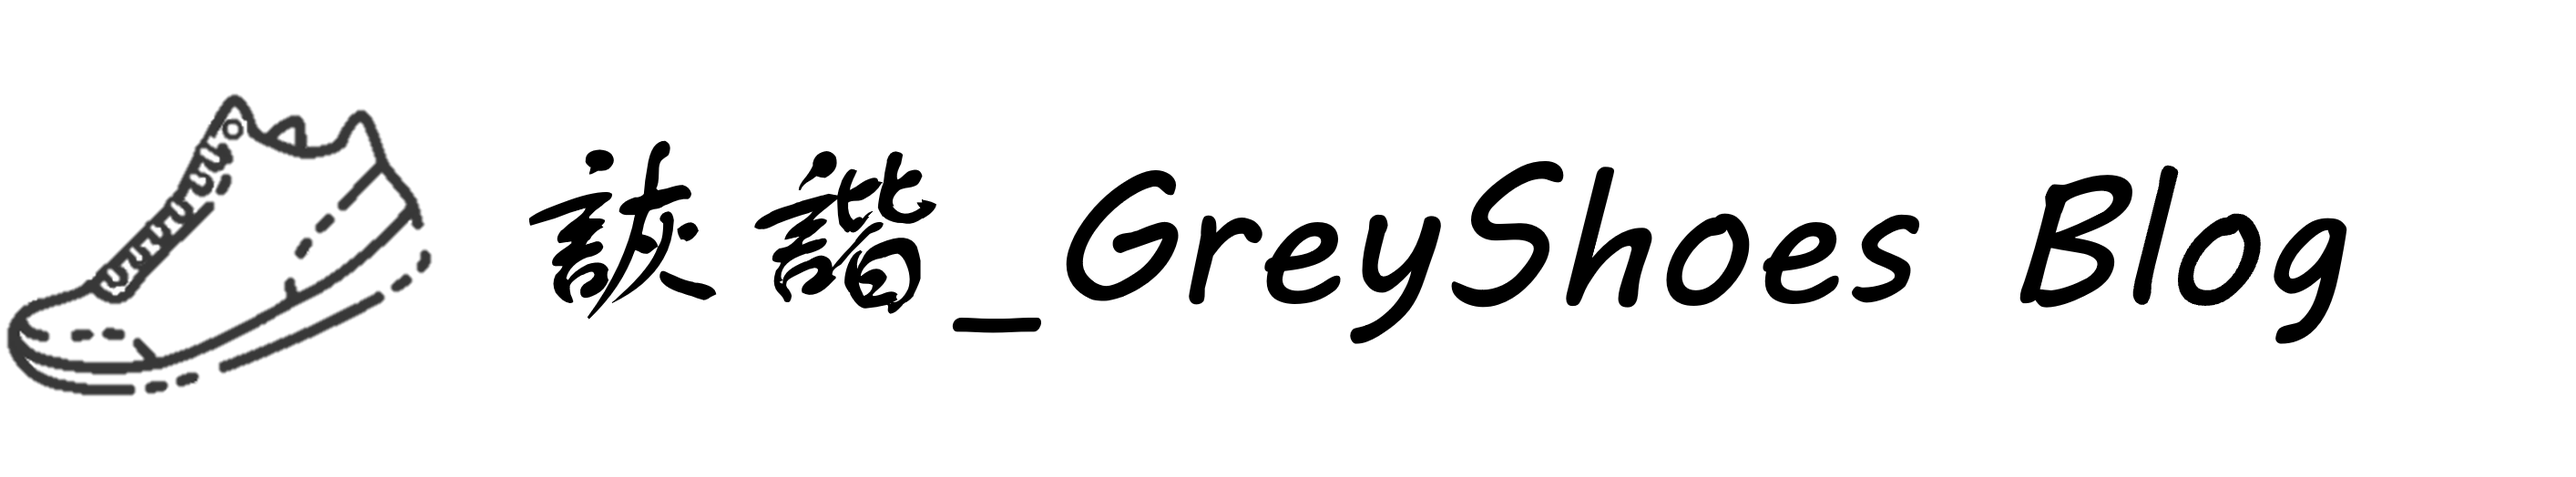
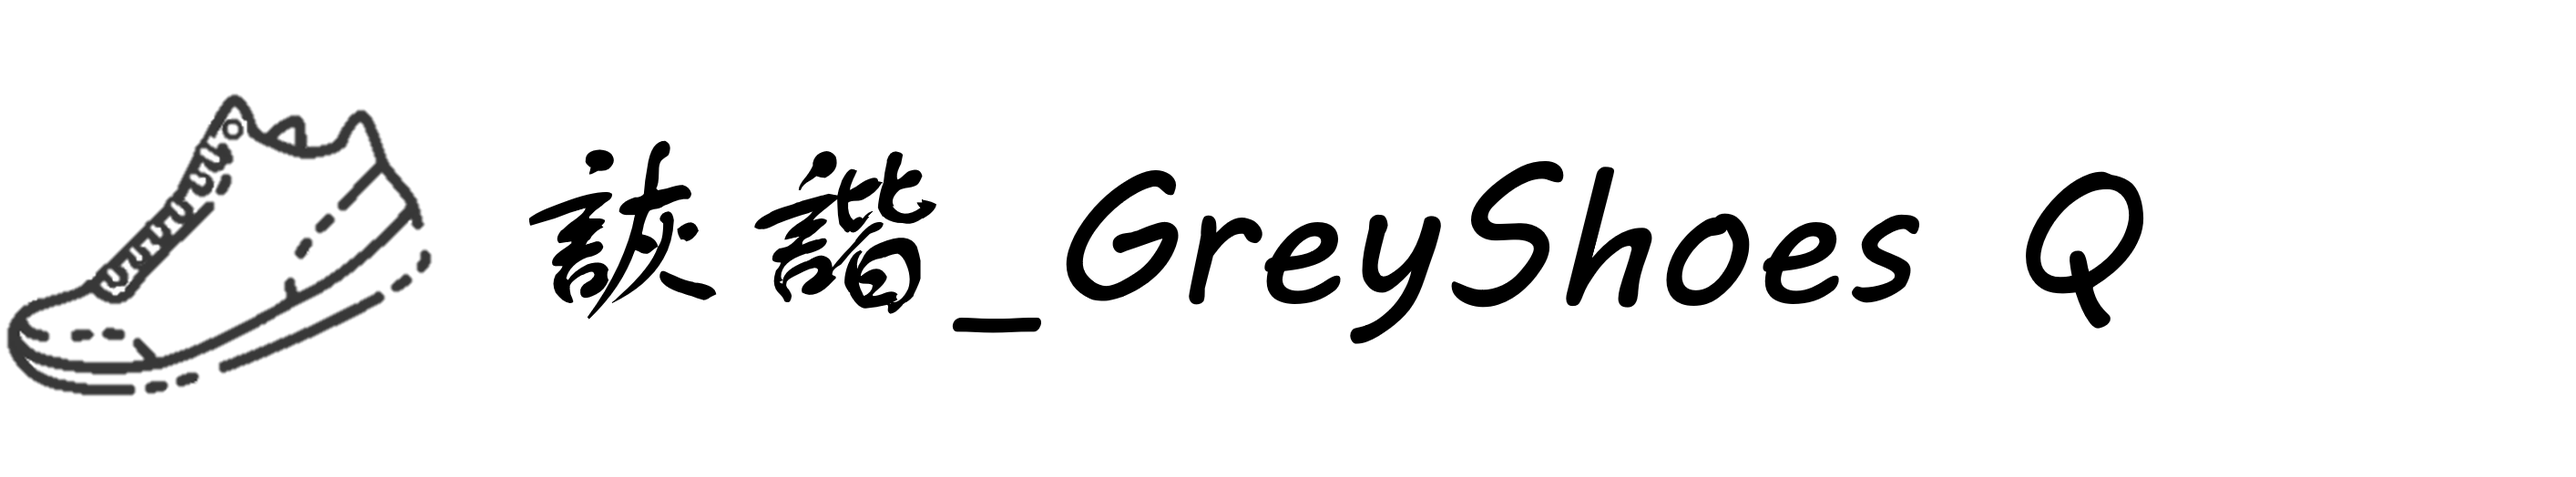
update

Changed region(s): [[0.7779, 0.3664, 0.9335, 0.7328]]

diff --git a/初學量子1.html b/初學量子1.html
@@ -53,7 +53,7 @@
 										<h1 style="width: device-width">量子有這麽難？ 7個方法告訴你如何入門量子科技</h1>
 									</header>
 
-									<span class="image main"><img src="blog/第一篇/picture/pexels-negative-space-169573.jpg" alt="" /></span>
+									<span class="image main"><img src="blog/第一篇/picture/title.png" alt="" /></span>
 									
 									<h2>爲什麽要學量子科技（Quantum Technology）</h2>
 									<br/>
@@ -87,7 +87,7 @@
 									<br/>
 									
 									<p><strong>1.量子物理史話:上帝擲骰子嗎？</strong></p>
-									<span class="image main"><img src="blog/第一篇/picture/8716209_R.jpg" id="shaizi" alt=""  width="400px"/></span>
+									<img src="blog/第一篇/picture/8716209_R.jpg" id="shaizi" alt=""  height="400px"/>
 									<br/>
 									<br/>
 									<p>愛因斯坦:「上帝不擲骰子!」</p>
@@ -98,7 +98,7 @@
 									<br/>
 									<br/>
 									<p><strong>2.量子電腦與量子計算:IBM Q Experience實作</strong></p>
-									<span class="image main"><img src="blog/第一篇/picture/getImage.jpg" id="shizuo" alt=""  height="400px"/><span class="image main"></span>
+									<img src="blog/第一篇/picture/getImage.jpg" id="shizuo" alt=""  height="400px"/>
 									<br/>
 									<br/>
 									<p>如果說剛剛介紹的那本書讓你的雙脚走進了量子的領域，那麽這一本相當於在你猶豫不決的背後推了你一把。</p>
@@ -113,7 +113,7 @@
 									<br/>
 
 									<p><strong>3.Quantum Computation and Quantum Information</strong></p>
-									<span class="image main"><img src="blog/第一篇/picture/R.jpg" id="qc" alt=""  height="400px"/><span class="image main"></span>
+									<img src="blog/第一篇/picture/R.jpg" id="qc" alt=""  height="400px"/>
 									<br/>
 									<br/>
 									<p>量子計算與量子信息( Quantum Computation and Quantum Information )被稱爲<strong>量子界的聖經</strong>，它甚至被貶評爲是<u>假設讀者完全不了解量子力學的概念</u>。</p>
@@ -292,6 +292,9 @@
 							</section> -->
 							<section>
 								<div class="fields-half">
+									<img src="blog/picture/myicon_name_messageboard.png" width="600px" style="position: relative; right: 35px; bottom: 30px;"/>
+									<br/>
+									<br/>
 									<div id="list">
 
 									<!-- 留言内容 -->
@@ -386,7 +389,7 @@
 								<li><a href="https://www.linkedin.com/in/%E8%A9%BC%E8%AB%A7-greyshoes-q-bab667230/" class="icon brands alt fa-linkedin-in"><span class="label">LinkedIn</span></a></li>
 							</ul>
 							<ul class="copyright">
-								<li>&copy; greyshoesq.com</li><li>詼諧_GreyShoes Q</li>
+								<li>&copy; 詼諧_GreyShoes Q</li><li>https://greyshoesq.com</li>
 							</ul>
 						</div>
 					</footer>

diff --git a/assets/css/main.css b/assets/css/main.css
@@ -195,7 +195,7 @@ input, select, textarea {
 		}
 
 	h1 {
-		font-size: 2.5em;
+		font-size: 2.0em;
 	}
 
 	h2 {
